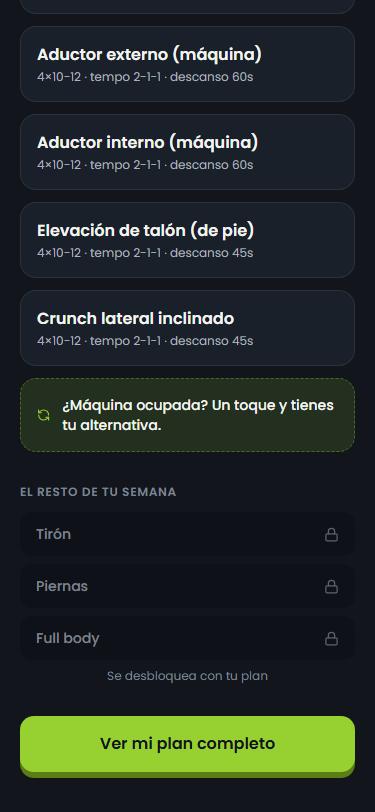
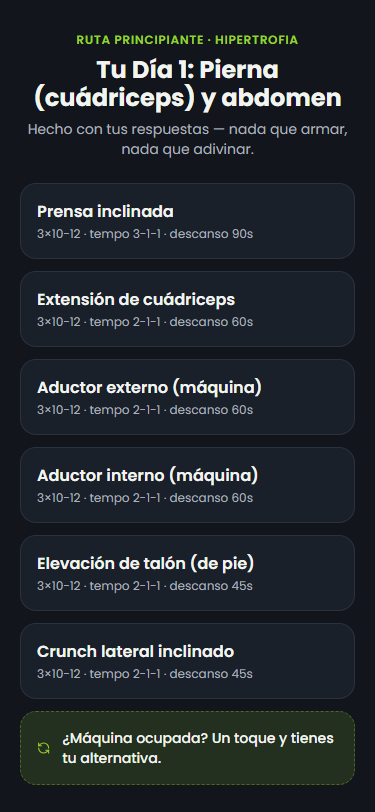
fix: la vista previa del Dia 1 respeta el nivel real del usuario
app/onboarding/plan/page.tsx llamaba a ejerciciosDeHoy(1) sin el nivel
de la persona, asi que un Principiante veia la rutina de Intermedio
(con barra libre) justo antes del paywall, contradiciendo la etiqueta
"RUTA PRINCIPIANTE" de la misma pantalla. Se re-capturo frame-rescate.png
de la landing, que usaba esa misma pantalla con el bug activo.

diff --git a/app/onboarding/plan/page.tsx b/app/onboarding/plan/page.tsx
@@ -36,7 +36,7 @@ export default function VistaPreviaDiaUnoPage() {
 
   if (!cargado || !respuestas) return null;
 
-  const ejercicios = ejerciciosDeHoy(1);
+  const ejercicios = ejerciciosDeHoy(1, respuestas.nivel);
   const nombreDia1 = nombreDeHoy(1);
 
   return (

diff --git a/ESTADO.md b/ESTADO.md
@@ -1,6 +1,13 @@
 # ESTADO — GymEvo (nombre tentativo: Método Cero)
 Última actualización: 2026-09-07 | Sesión actual: 8 (en curso)
 
+⏸ CHECKPOINT — Última acción completada (07/09/2026): **Auditoría pedida por el usuario ("revisar todo minuciosamente, no debemos repetir todo varias veces") — se revisaron a 375px las 8 pantallas principales (onboarding completo, vista previa Día 1, plan del día, historial, perfil, paywall) buscando texto/elementos mal alineados y contenido repetido. Se encontró y corrigió un 2º bug real de duplicado, distinto del de la sesión anterior.**
+- **El pedido de alineación ("todo debe quedar justificado y en línea") se aclaró con una captura del propio usuario** del saludo previo al entrenamiento (¡Hola! ... Iniciar entrenamiento) como referencia de "así debe quedar" — se confirmó que esa pantalla ya coincide exactamente con el código actual (mismo texto centrado, mismo botón). No hizo falta cambiar nada ahí.
+- **Bug real encontrado — vista previa del Día 1 (`app/onboarding/plan/page.tsx`, pantalla de venta justo antes del paywall)**: llamaba a `ejerciciosDeHoy(1)` SIN el nivel de la persona, así que SIEMPRE mostraba la rutina de nivel Intermedio (con barra libre) aunque el usuario hubiera elegido "Principiante" en el cuestionario — contradecía la etiqueta "RUTA PRINCIPIANTE" que aparece arriba, y mostraba "Sentadilla con barra" JUNTO A "Prensa inclinada" (su propia alternativa para principiantes) en la misma lista — el mismo patrón del bug de `ejerciciosDeHoy` corregido el 07/09 anterior, pero en un punto de llamada distinto que no pasaba por esa función corregida con el nivel real. Fix de una línea: `ejerciciosDeHoy(1, respuestas.nivel)`. Esto también afectaba a `frame-rescate.png` de la landing (se capturó con el bug activo horas antes) — re-capturado tras el fix.
+- **Resto de pantallas revisadas sin hallazgos**: onboarding (los 7 pasos), plan del día (Ruta Principiante, día de Empuje), historial, perfil (grilla de macros ya alineada desde el fix del 04/09) y paywall — sin texto descuadrado, sin tarjetas duplicadas, sin warnings de React en consola ("same key") en ninguna.
+- Verificado: tsc ✓ · eslint ✓ (0 errores) · build ✓ · las 8 pantallas confirmadas visualmente a 375px con Playwright (rutas temporales creadas y borradas en esta misma sesión, confirmado que no quedaron en el build) · `frame-rescate.png` re-capturado con la Ruta Principiante correcta.
+/ Siguiente acción exacta: ninguna sobre este pedido — publicado. Si el usuario ve todavía algo "no justificado/en línea" en su celular que esta revisión no haya cubierto, pedirle una captura señalando el lugar exacto (la referencia que mandó ya coincidía con el código).
+
 ⏸ CHECKPOINT — Última acción completada (07/09/2026): **Los 4 screenshots del carrusel "La app por dentro" de la landing (onboarding/plan del día/rescate/historial) se re-capturaron con la identidad oscura actual — antes mostraban el diseño claro anterior, contradiciendo el resto de la landing (ya oscura desde el 03/09).**
 - **Cómo se descubrió**: el usuario reportó que las imágenes de la landing "no concuerdan" con el diseño actual — correcto: `public/screenshots/*.png` nunca se habían re-capturado tras el rediseño oscuro "Sala de Pesas" (pendiente ya anotado en un checkpoint del 03/09, "Problemas conocidos").
 - **Re-capturados con `scripts/capturar-frames-carrusel.mjs`** (actualizado: el script asumía un onboarding sin el paso "sexo" y usaba `/app`/`/app/historial` directo — esas 2 rutas exigen sesión paga real en `proxy.ts`, que NO tiene ningún bypass de servidor pese a que un comentario viejo lo daba por hecho; se corrigió usando el patrón ya establecido de esta sesión — 2 rutas temporales `/dev-preview-plandeldia` y `/dev-preview-historial` que reexportan el mismo componente sin el guard, creadas, usadas y borradas en esta misma sesión, confirmado que no quedaron en el build).
